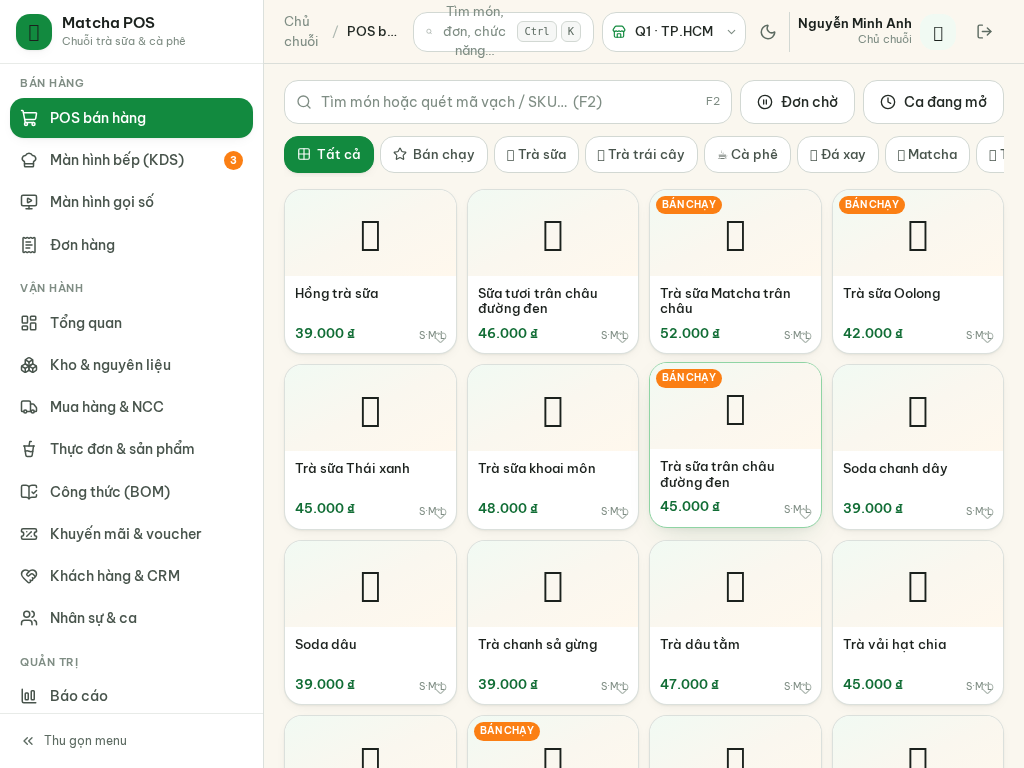
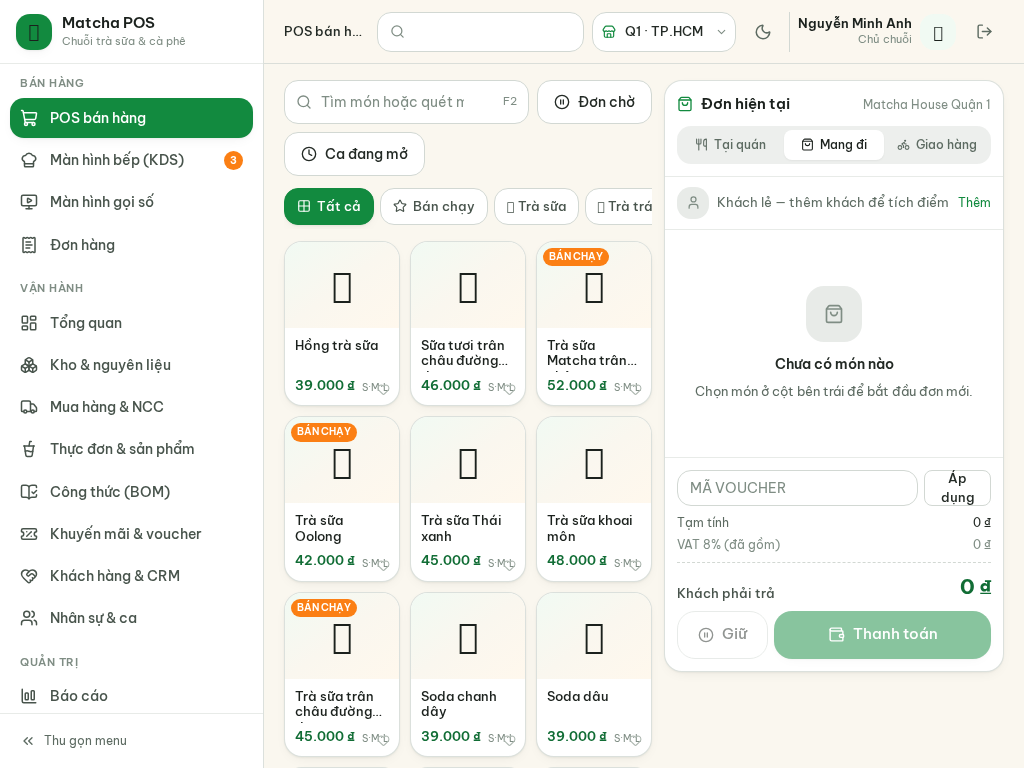
Tinh chỉnh UI tablet, font nhúng sẵn, sửa seed theo ngày thực & chống tồn âm

diff --git a/src/components/layout/AppShell.tsx b/src/components/layout/AppShell.tsx
@@ -124,19 +124,19 @@ export function AppShell({ children }: { children: React.ReactNode }) {
         <header className="sticky top-0 z-30 flex h-16 items-center gap-2 border-b border-ink-200/80 bg-cream-100/85 px-3 backdrop-blur-xl dark:border-ink-800 dark:bg-ink-950/85 sm:px-5">
           <IconButton label="Mở menu" className="lg:hidden" onClick={() => setMobileNav(true)}><Menu size={20} /></IconButton>
 
-          <div className="hidden min-w-0 items-center gap-2 text-[13px] text-ink-500 md:flex">
-            <span className="text-ink-400">{role ? ROLE_LABEL[role as Role] : ''}</span>
-            <span className="text-ink-300">/</span>
+          <div className="hidden min-w-0 shrink items-center gap-2 whitespace-nowrap text-[13px] text-ink-500 md:flex">
+            <span className="hidden text-ink-400 xl:inline">{role ? ROLE_LABEL[role as Role] : ''}</span>
+            <span className="hidden text-ink-300 xl:inline">/</span>
             <span className="truncate font-medium text-ink-800 dark:text-ink-100">{currentLabel}</span>
           </div>
 
           <button
             onClick={() => setPaletteOpen(true)}
-            className="ml-auto flex h-10 items-center gap-2 rounded-xl border border-ink-200 bg-white px-3 text-[13px] text-ink-400 transition-colors hover:border-ink-300 dark:border-ink-700 dark:bg-ink-900 sm:w-64"
+            className="ml-auto hidden h-10 items-center gap-2 rounded-xl border border-ink-200 bg-white px-3 text-[13px] text-ink-400 transition-colors hover:border-ink-300 dark:border-ink-700 dark:bg-ink-900 md:flex lg:w-56 xl:w-64"
           >
             <Search size={15} />
-            <span className="hidden sm:inline">Tìm món, đơn, chức năng…</span>
-            <span className="ml-auto hidden items-center gap-1 sm:flex"><Kbd>Ctrl</Kbd><Kbd>K</Kbd></span>
+            <span className="hidden whitespace-nowrap xl:inline">Tìm món, đơn, chức năng…</span>
+            <span className="ml-auto hidden items-center gap-1 xl:flex"><Kbd>Ctrl</Kbd><Kbd>K</Kbd></span>
           </button>
 
           {/* branch switcher */}
@@ -145,7 +145,7 @@ export function AppShell({ children }: { children: React.ReactNode }) {
               value={branchId}
               onChange={(e) => setBranch(Number(e.target.value))}
               aria-label="Chọn chi nhánh"
-              className="h-10 max-w-[168px] cursor-pointer appearance-none rounded-xl border border-ink-200 bg-white pl-8 pr-7 text-[13px] font-medium text-ink-800 focus:border-matcha-500 focus:outline-none dark:border-ink-700 dark:bg-ink-900 dark:text-ink-100"
+              className="h-10 w-[104px] max-w-[168px] cursor-pointer appearance-none rounded-xl border border-ink-200 bg-white pl-8 pr-7 text-[13px] font-medium text-ink-800 focus:border-matcha-500 focus:outline-none dark:border-ink-700 dark:bg-ink-900 dark:text-ink-100 sm:w-auto"
             >
               {branches.map((b: Branch) => (
                 <option key={b.id} value={b.id}>{b.code} · {b.city}</option>
@@ -158,7 +158,7 @@ export function AppShell({ children }: { children: React.ReactNode }) {
           <IconButton label="Đổi giao diện sáng/tối" onClick={toggleTheme}>{theme === 'dark' ? <Sun size={18} /> : <Moon size={18} />}</IconButton>
 
           <div className="flex items-center gap-2 border-l border-ink-200 pl-2 dark:border-ink-700">
-            <div className="hidden text-right sm:block">
+            <div className="hidden text-right lg:block">
               <p className="max-w-[140px] truncate text-[13px] font-semibold leading-tight text-ink-900 dark:text-ink-50">{user?.name}</p>
               <p className="text-[11px] text-ink-400">{role ? ROLE_LABEL[role as Role] : ''}</p>
             </div>

diff --git a/src/pages/POS.tsx b/src/pages/POS.tsx
@@ -187,7 +187,7 @@ export function POSPage() {
   }
 
   return (
-    <div className="grid gap-3 xl:grid-cols-[minmax(0,1fr)_400px]">
+    <div className="grid gap-3 lg:grid-cols-[minmax(0,1fr)_340px] xl:grid-cols-[minmax(0,1fr)_400px]">
       {/* ---------------------------- LEFT: catalog ---------------------------- */}
       <div className="min-w-0">
         <div className="mb-3 flex flex-wrap items-center gap-2">
@@ -221,7 +221,7 @@ export function POSPage() {
         {filtered.length === 0 ? (
           <Card><EmptyState icon={<Coffee size={22} />} title="Không có món nào khớp" description="Thử từ khoá khác hoặc bỏ bộ lọc danh mục." /></Card>
         ) : (
-          <div className="grid grid-cols-2 gap-2.5 sm:grid-cols-3 lg:grid-cols-4 2xl:grid-cols-5">
+          <div className="grid grid-cols-2 gap-2.5 sm:grid-cols-3 lg:grid-cols-3 xl:grid-cols-4 2xl:grid-cols-5">
             {filtered.map((p) => {
               const fav = favorites.includes(p.id)
               const inCart = lines.filter((l) => l.productId === p.id).reduce((s, l) => s + l.qty, 0)
